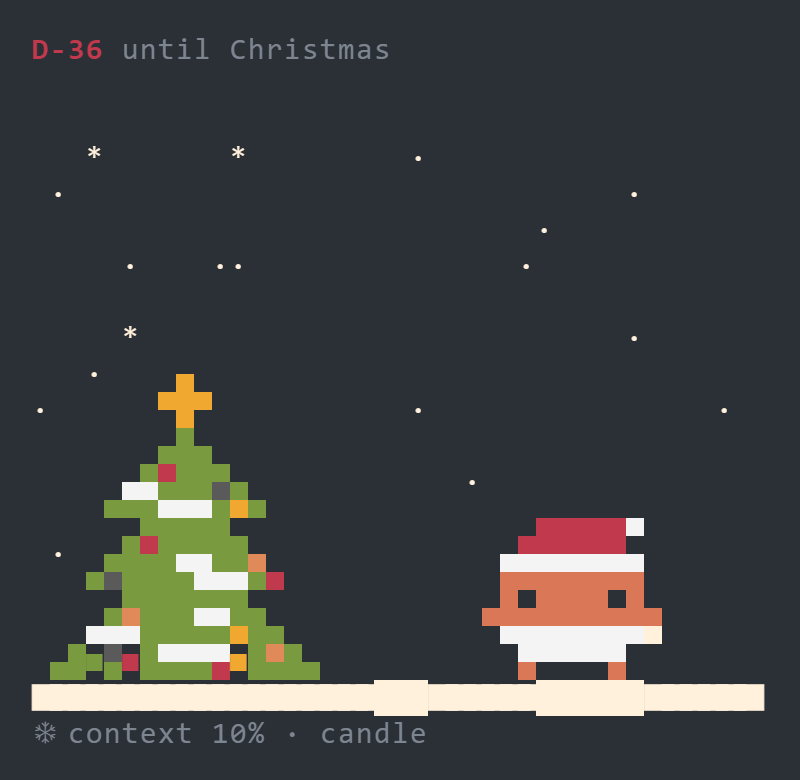
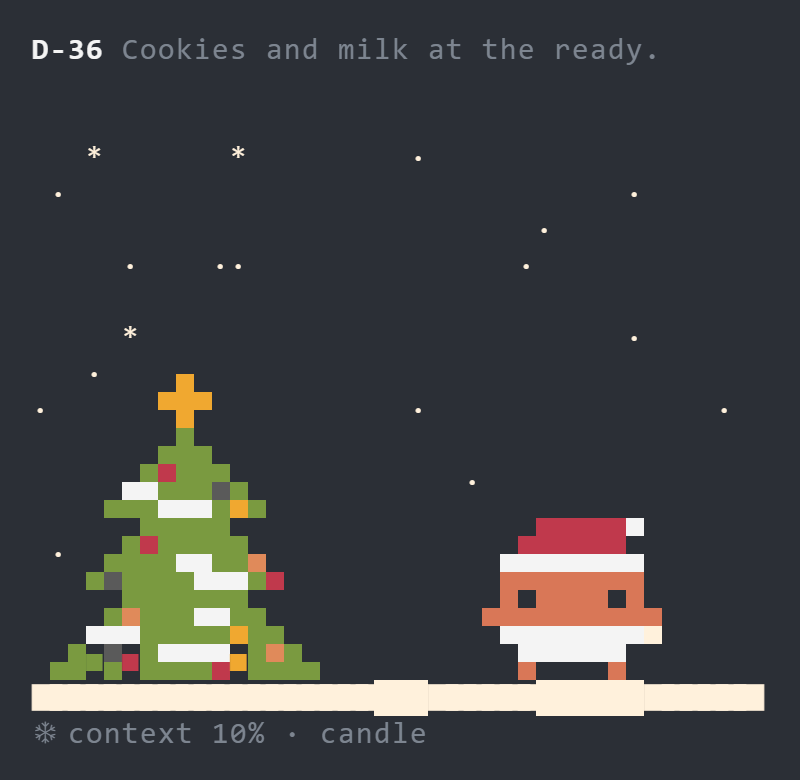
Christmas greetings beside a white countdown

diff --git a/hooks/greetings.ts b/hooks/greetings.ts
@@ -1,0 +1,119 @@
+// Christmas lines for the welcome card and the pane's title, one picked at a time.
+// Each fits after the countdown in the pane's 40 columns: `D-365 ` leaves 34.
+export const GREETING_MAX = 34
+
+export const GREETINGS = [
+  // Santa Claude says hello
+  'Ho ho ho, Santa Claude is here.',
+  'Ho ho ho! Ready to ship some joy?',
+  'Santa Claude reporting for duty!',
+  'Santa Claude checked in. Ho ho!',
+  'Ho ho ho, let us build something!',
+  'Santa Claude is warming his mitts.',
+  'Ho ho hello there!',
+  'Santa Claude, at your service.',
+  'Ho ho ho, what are we making?',
+  'Santa Claude dusted the sleigh.',
+  // The nice list
+  'You are on the nice list. Ho ho!',
+  'Nice list status: confirmed.',
+  'Checked the list twice. You pass!',
+  'Good code earns a nice-list star.',
+  'Clean commits count as nice.',
+  'No coal for you this year.',
+  'Writing tests? Very nice list.',
+  'Naughty bugs go on the other list.',
+  'The nice list loves a green build.',
+  'Santa saw that refactor. Nice!',
+  // Snow and cold
+  'Let it snow, let it snow!',
+  'Fresh snow on the context window.',
+  'Snowflakes falling, tokens rising.',
+  'Bundle up, it is snowy out here.',
+  'A little snow never hurt anyone.',
+  'Every token is a tiny snowflake.',
+  'Snow day? Not for us. Ho ho!',
+  'Frosty outside, cozy in here.',
+  'The snowfield is looking lovely.',
+  'Catch a snowflake on your tongue!',
+  // Cozy things
+  'Hot cocoa with extra marshmallows.',
+  'Cookies and milk at the ready.',
+  'Grab a mug of cocoa and code.',
+  'Fire crackling, code compiling.',
+  'Wrapped in a blanket, typing away.',
+  'Cozy socks on. Let us begin!',
+  'Gingerbread in the oven.',
+  'Candy canes for every bug fixed.',
+  'Peppermint mocha, anyone?',
+  'Smells like cinnamon in here.',
+  // The workshop
+  'The elves are on standby.',
+  'The workshop lights are on.',
+  'Elves sharpening their pencils.',
+  'Toys in progress, ho ho!',
+  'An elf just merged a PR.',
+  'The elves voted: tabs or spaces?',
+  'Workshop status: very busy.',
+  'Elves on call, coffee on tap.',
+  'Hammers tapping in the workshop.',
+  'One more toy off the line!',
+  // Rudolph and friends
+  'Rudolph says hi! 🦌',
+  'Rudolph polished his nose for you.',
+  'Rudolph is lighting the way.',
+  'Dasher and Dancer send regards.',
+  'The reindeer are well fed.',
+  'Rudolph found your lost semicolon.',
+  'Prancer is pacing on the roof.',
+  'The reindeer are doing stretches.',
+  'Rudolph debugs by nose-light.',
+  'Comet zoomed by. Make a wish!',
+  // Presents and commits
+  'Every commit is a present!',
+  'Wrap it up and ship it!',
+  'A gift under the tree per commit.',
+  'Bows on top, bugs at the bottom.',
+  'Tag your gifts and your releases.',
+  'Presents piling up nicely.',
+  'Unwrapping a brand-new session.',
+  'What is in the box? Code!',
+  'The best gift is a passing test.',
+  'Ribbon tied, branch merged.',
+  // Merry and bright
+  'Merry and bright, ho ho!',
+  'Jingle all the way!',
+  'Deck the halls with clean code.',
+  'Tis the season to be coding.',
+  'Fa la la la la, la la la la!',
+  'Joy to the codebase!',
+  'Have a holly jolly session.',
+  'Rockin around the Christmas tree.',
+  'Jingle bells, green builds.',
+  'Silent night, quiet logs.',
+  // The tree and the lights
+  'The tree is twinkling for you.',
+  'The star is on top. All set!',
+  'Bulbs blinking, ideas sparking.',
+  'Every bulb is a little idea.',
+  'Tinsel straightened, ready to go.',
+  'The garland is looking festive.',
+  'Lights strung. Code next!',
+  'One more ornament for the tree.',
+  'The tree smells of pine and code.',
+  'Twinkle twinkle, little build.',
+  // Waiting for the big day
+  'Counting down the sleeps!',
+  'Not long now. Ho ho ho!',
+  'Stockings hung with care.',
+  'The chimney has been swept.',
+  'Leave a cookie out for Santa!',
+  'Santa is checking the weather.',
+  'The sleigh is fueled and ready.',
+  'Christmas is coming, so is v2.',
+  'Wish lists welcome, PRs too.',
+  'Every day is a little advent.',
+] as const
+
+export const pickGreeting = (random: number): string =>
+  GREETINGS[Math.floor(random * GREETINGS.length)] ?? GREETINGS[0]

diff --git a/hooks/register.tsx b/hooks/register.tsx
@@ -1,8 +1,9 @@
 import { atom, read, update } from 'claude-code'
-import type { EngineInterface, Register } from 'claude-code'
+import type { ElementConstructor, EngineInterface, Register, TextProps } from 'claude-code'
 
 import type { Prefs } from '../types'
 import { specOf, suggest } from './commands'
+import { pickGreeting } from './greetings'
 import { RunsLine } from './runs'
 import type { SantaProps } from './santa-client'
 import {
@@ -18,6 +19,7 @@ import {
   isPalette,
   santaRows,
 } from './scene'
+import type { Colors } from './scene'
 import type { SceneProps } from './scene-client'
 import { SPINNER_WORDS } from './words'
 
@@ -31,7 +33,15 @@ const DEFAULT_PREFS: Prefs = { isOn: true, palette: 'classic', paneAuto: false, 
 const snow = atom({ plugin: 'santaclaude', key: 'snow' } as const, 0)
 const gifts = atom({ plugin: 'santaclaude', key: 'gifts' } as const, 0)
 const days = atom({ plugin: 'santaclaude', key: 'days' } as const, 0)
+const greeting = atom({ plugin: 'santaclaude', key: 'greeting' } as const, '')
 const prefs = atom({ plugin: 'santaclaude', key: 'prefs' } as const, DEFAULT_PREFS)
+
+/** The countdown in white, or the day itself in red. */
+const Countdown = ({ Text, days, colors }: { Text: ElementConstructor<TextProps>; days: number; colors: Colors }) => (
+  <Text bold color={days === 0 ? colors.red : colors.white}>
+    {countdownText(days)}
+  </Text>
+)
 
 const COMMIT = /\bgit\b[^\n|;&]*\bcommit\b/
 
@@ -53,6 +63,8 @@ const firstWord = (args: string): string => args.trim().toLowerCase().split(/\s+
 
 export const register: Register = on => {
   let word = SPINNER_WORDS[0] ?? 'Wrapping presents'
+  // The welcome card keeps the line it was first drawn with; the pane's title takes a new one each turn.
+  const welcome = pickGreeting(Math.random())
 
   on('session.start', async ($, e, next) => {
     const stored = (await $.store.get(PREFS_KEY)) as Partial<Prefs> | undefined
@@ -62,6 +74,7 @@ export const register: Register = on => {
     await update($, days, () => countdown)
     const usage = await $.session.usage()
     await update($, snow, () => usage.context.percent ?? 0)
+    await update($, greeting, () => pickGreeting(Math.random()))
 
     await $.command.register({ name: 'santaclaude-pane', ...specOf('santaclaude-pane') })
     await $.command.register({ name: 'santaclaude-color', ...specOf('santaclaude-color') })
@@ -138,6 +151,7 @@ export const register: Register = on => {
 
   on('turn.start', async ($, e, next) => {
     word = SPINNER_WORDS[Math.floor(Math.random() * SPINNER_WORDS.length)] ?? word
+    await update($, greeting, () => pickGreeting(Math.random()))
 
     return next(e)
   })
@@ -227,7 +241,6 @@ export const register: Register = on => {
     const left = await read($, days)
     const elements = $.ui.resolve(e)
     const { Box, Text } = elements
-    const line = left === 0 ? 'Merry Christmas!' : `${countdownText(left)} until Christmas`
     const santa: SantaProps = { colors }
 
     return (
@@ -248,9 +261,10 @@ export const register: Register = on => {
           </Box>
         )}
         <Box flexDirection="column" paddingBottom={1}>
-          <Text bold>Ho ho ho, Santa Claude is here.</Text>
+          <Text bold>{welcome}</Text>
           <Text>
-            <Text color={colors.red}>{line}</Text>
+            <Countdown Text={Text} days={left} colors={colors} />
+            {left === 0 ? null : <Text dimColor> until Christmas</Text>}
             <Text dimColor> · type /santaclaude- for commands</Text>
           </Text>
         </Box>
@@ -279,10 +293,8 @@ export const register: Register = on => {
     return (
       <Box flexDirection="column">
         <Text>
-          <Text bold color={colors.red}>
-            {countdownText(left)}
-          </Text>
-          {left === 0 ? null : <Text dimColor> until Christmas</Text>}
+          <Countdown Text={Text} days={left} colors={colors} />
+          {left === 0 ? null : <Text dimColor> {await read($, greeting)}</Text>}
         </Text>
         {'Client' in elements ? (
           <elements.Client key="scene" module="./scene-client.tsx" props={scene} width={width} height={height} />

diff --git a/hooks/greetings.test.ts b/hooks/greetings.test.ts
@@ -1,0 +1,17 @@
+import { expect, test } from 'claude-code/testing'
+
+import { GREETINGS, GREETING_MAX, pickGreeting } from './greetings'
+
+test('a hundred different greetings', () => {
+  expect(GREETINGS.length).toBe(100)
+  expect(new Set(GREETINGS).size).toBe(100)
+})
+
+test('each greeting fits after the countdown in the pane', () => {
+  expect(GREETINGS.filter(line => [...line].length > GREETING_MAX)).toEqual([])
+})
+
+test('picks cover the whole list', () => {
+  expect(pickGreeting(0)).toBe(GREETINGS[0])
+  expect(pickGreeting(0.999999)).toBe(GREETINGS[99])
+})

diff --git a/types/index.d.ts b/types/index.d.ts
@@ -16,6 +16,8 @@ declare module 'claude-code' {
       gifts: number
       /** Days until the next Christmas, 0 on the day. */
       days: number
+      /** The Christmas line in the pane's title, picked anew each turn. */
+      greeting: string
       prefs: Prefs
     }
   }

diff --git a/README.md b/README.md
@@ -19,6 +19,7 @@ A Christmas mod for Claude Code: snow piles up as your context window fills.
 - **The Christmas pane** (`/santaclaude-pane`): a pixel-art tree with twinkling bulbs standing on a snowfield that rises as your context fills, a present under it for every commit this session, and the countdown to Christmas. Santa Claude stands on the snow and hops now and then, and whenever you hover over or click him. Snow drifts down, Rudolph wanders by from time to time, and on December 25 Santa's sleigh flies over.
 - **A little snowman**, hidden by default (`/santaclaude-snowman on`). He hops when hovered or clicked too.
 - **A welcome card** with Santa Claude when a session starts. He hops there too, now and then and when you hover over or click him.
+- **100 Christmas greetings**, from "Ho ho ho, Santa Claude is here." to "Rudolph found your lost semicolon.": a new one on the welcome card each session and in the pane's title each turn, next to the countdown.
 - **Christmas spinner words** while Claude works: about 48 of them, from "Wrapping presents…" to "Waking Rudolph…".
 - **Toasts** when the snow (context) passes 50%, 80% and 95%, and when compaction melts it away.
 
